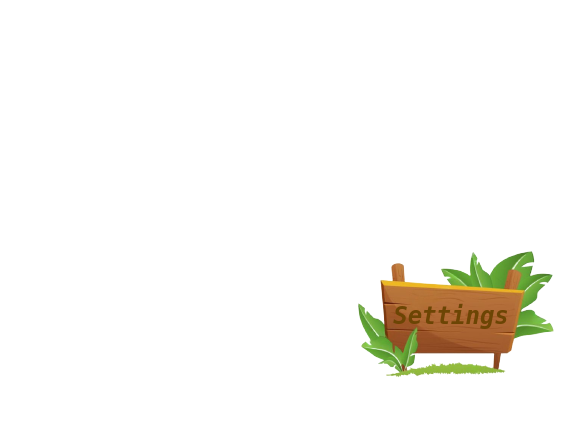
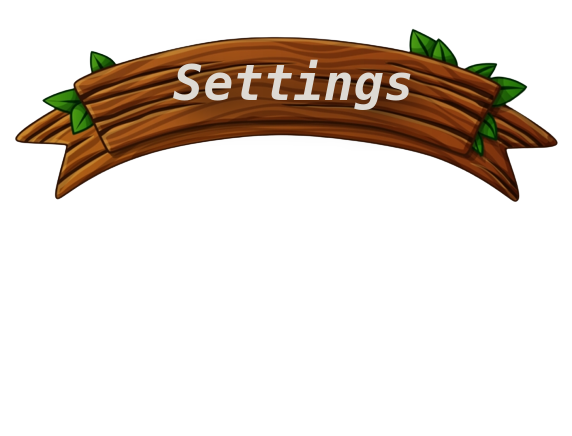
[ADD] TITLE PAGE

Changed region(s): [[0.0299, 0.0596, 0.9877, 0.4771], [0.6285, 0.5665, 0.9877, 0.8647]]

diff --git a/src/menu/position.c b/src/menu/position.c
@@ -40,8 +40,8 @@ int init_pos_menu(menu_t *menu, btn_t *btn)
     menu->red_skin.pos = (sfVector2f){100, 400};
     menu->brown_skin.pos = (sfVector2f){300, 400};
     menu->blue_skin.pos = (sfVector2f){500, 400};
-    menu->sign_settings.pos = (sfVector2f){-400, 525};
-    menu->sign_skin.pos = (sfVector2f){1250, 525};
+    menu->sign_settings.pos = (sfVector2f){615, 0};
+    menu->sign_skin.pos = (sfVector2f){615, 0};
     set_pos_menu(menu, btn);
     return (0);
 }

diff --git a/src/menu/display.c b/src/menu/display.c
@@ -41,6 +41,9 @@ int display_menu_conf(menu_t *menu, game_t *game, btn_t *btn)
     (game->window.window, btn->prev_btn.sprite, NULL);
     sfRenderWindow_drawSprite
     (game->window.window, menu->sign_skin.sprite, NULL);
+    for (int i = 0; i != 4; ++i)
+        sfRenderWindow_drawSprite
+        (game->window.window, menu->bg_skin[i].sprite, NULL);
     sfRenderWindow_display(game->window.window);
     return (0);
 }

diff --git a/src/menu/path.c b/src/menu/path.c
@@ -20,6 +20,9 @@ static int set_path_menu_conf(menu_t *menu)
     menu->sign_skin.sprite =
     init_sprite("ressources/menu/sign_skin.png",
     menu->blue_skin.texture, 1, 1);
+    for (int i = 0; i != 4; ++i)
+        menu->bg_skin[i].sprite = init_sprite("ressources/menu/bg_skin.png",
+        menu->blue_skin.texture, 1, 1);
     return (0);
 }
 

diff --git a/includes/menu.h b/includes/menu.h
@@ -50,6 +50,7 @@ typedef struct menu_s {
     param_t blue_skin;
     param_t sign_settings;
     param_t sign_skin;
+    param_t bg_skin[4];
     music_t sound;
 } menu_t;
 
